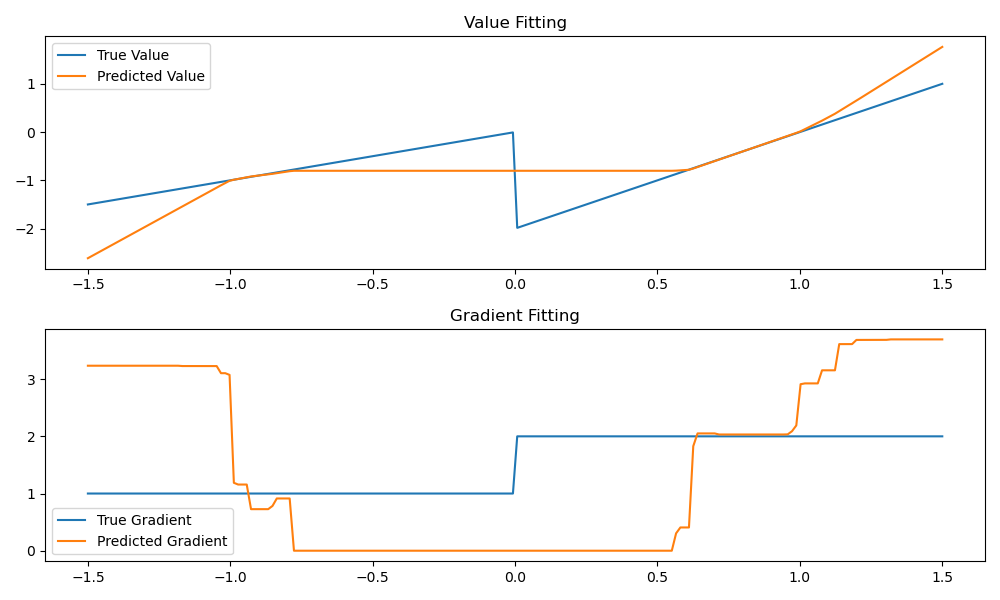
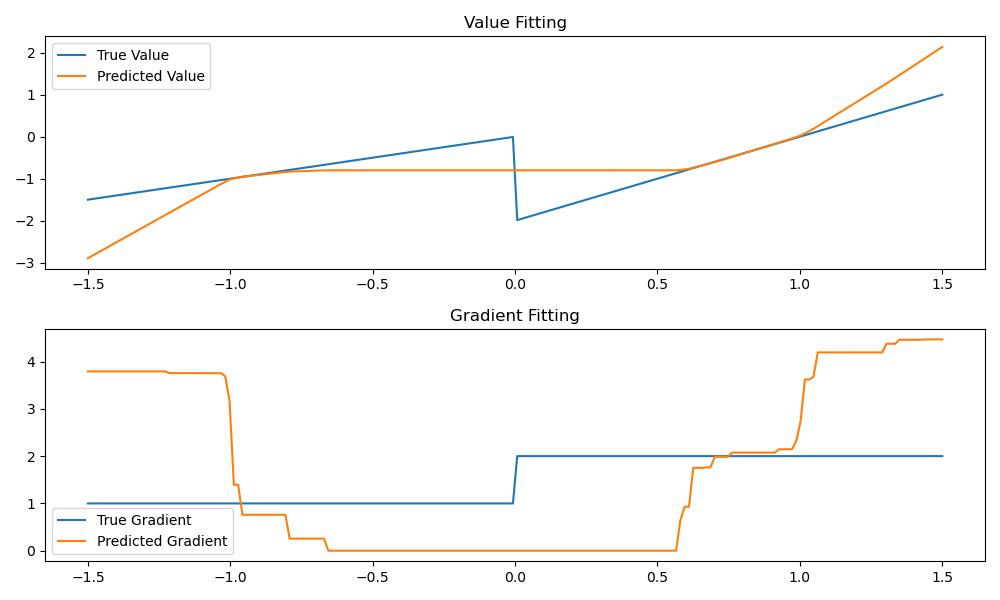
code

diff --git a/fitting.py b/fitting.py
@@ -1,0 +1,117 @@
+import torch
+import torch.nn as nn
+import torch.optim as optim
+import matplotlib.pyplot as plt
+
+def piecewise_function(x):
+    return torch.where(x < 0, x, -2 + 2 * x)
+
+def piecewise_gradient(x):
+    return torch.where(x < 0, torch.ones_like(x), 2 * torch.ones_like(x))
+
+class SmoothModel(nn.Module):
+    def __init__(self, activation_fn):
+        super(SmoothModel, self).__init__()
+        self.fc = nn.Sequential(
+            nn.Linear(1, 64),
+            activation_fn(),
+            nn.Linear(64, 1),
+        )
+        
+    def forward(self, x):
+        return self.fc(x)
+
+def train_model(
+    activation_fn=nn.SiLU, 
+    l2_weight=0.001, 
+    lr=0.001, 
+    epochs=100000,
+    plot_results=True,
+    value_weight=1.0,
+    gradient_weight=1.0
+):
+    # Generate training data
+    x_train = torch.linspace(-1, 1, 100)
+    x_train = x_train[(x_train < -0.1) | (x_train > 0.1)]
+    x_train = x_train.unsqueeze(1)
+    y_train = piecewise_function(x_train)
+    dy_train = piecewise_gradient(x_train)
+
+    # Model, loss, and optimizer
+    model = SmoothModel(activation_fn)
+    optimizer = optim.Adam(model.parameters(), lr=lr, weight_decay=l2_weight)
+    # scheduler = optim.lr_scheduler.ReduceLROnPlateau(optimizer)
+    # optimizer = optim.SGD(model.parameters(), lr=lr)
+    mse_loss = nn.MSELoss()
+
+    # Training loop
+    for epoch in range(epochs):
+        optimizer.zero_grad()
+        
+        # Compute predictions with gradient tracking
+        x_train.requires_grad_(True)
+        y_pred = model(x_train)
+        
+        # Compute gradients
+        dy_pred = torch.autograd.grad(
+            outputs=y_pred, 
+            inputs=x_train, 
+            grad_outputs=torch.ones_like(y_pred),
+            create_graph=True,
+            retain_graph=True
+        )[0]
+        
+        # Compute losses
+        value_loss = mse_loss(y_pred, y_train)
+        gradient_loss = mse_loss(dy_pred, dy_train)
+        loss = value_weight * value_loss + gradient_weight * gradient_loss
+        
+        # Backward pass and optimization
+        loss.backward()
+        optimizer.step()
+        # scheduler.step(loss)
+        
+        # Optional: Print loss periodically
+        if epoch % 100 == 0:
+            print(f'Epoch {epoch}, Loss: {loss.item():.4f}')
+
+    # Plot results
+    if plot_results:
+
+        x_test = torch.linspace(-1.5, 1.5, 200).unsqueeze(1)
+        y_test = piecewise_function(x_test)
+        dy_test = piecewise_gradient(x_test)
+        
+        x_test.requires_grad_()
+        y_pred = model(x_test)
+        
+        # Compute gradient without creating graph
+        dy_pred = torch.autograd.grad(
+            outputs=y_pred, 
+            inputs=x_test, 
+            grad_outputs=torch.ones_like(y_pred),
+            create_graph=True,
+            retain_graph=True
+        )[0]
+        
+        with torch.no_grad():
+            plt.figure(figsize=(10, 6))
+            plt.subplot(2, 1, 1)
+            plt.plot(x_test.numpy(), y_test.numpy(), label="True Value")
+            plt.plot(x_test.numpy(), y_pred.numpy(), label="Predicted Value")
+            
+            plt.legend()
+            plt.title("Value Fitting")
+            
+            plt.subplot(2, 1, 2)
+            plt.plot(x_test.numpy(), dy_test.numpy(), label="True Gradient")
+            plt.plot(x_test.numpy(), dy_pred.numpy(), label="Predicted Gradient")
+            plt.legend()
+            plt.title("Gradient Fitting")
+            
+            plt.tight_layout()
+            plt.savefig('fitting.png')
+            plt.show()
+
+# Example usage
+train_model(activation_fn=nn.ReLU, l2_weight=0.001,lr=0.001, epochs=10000, value_weight=1.0, gradient_weight=3.0)
